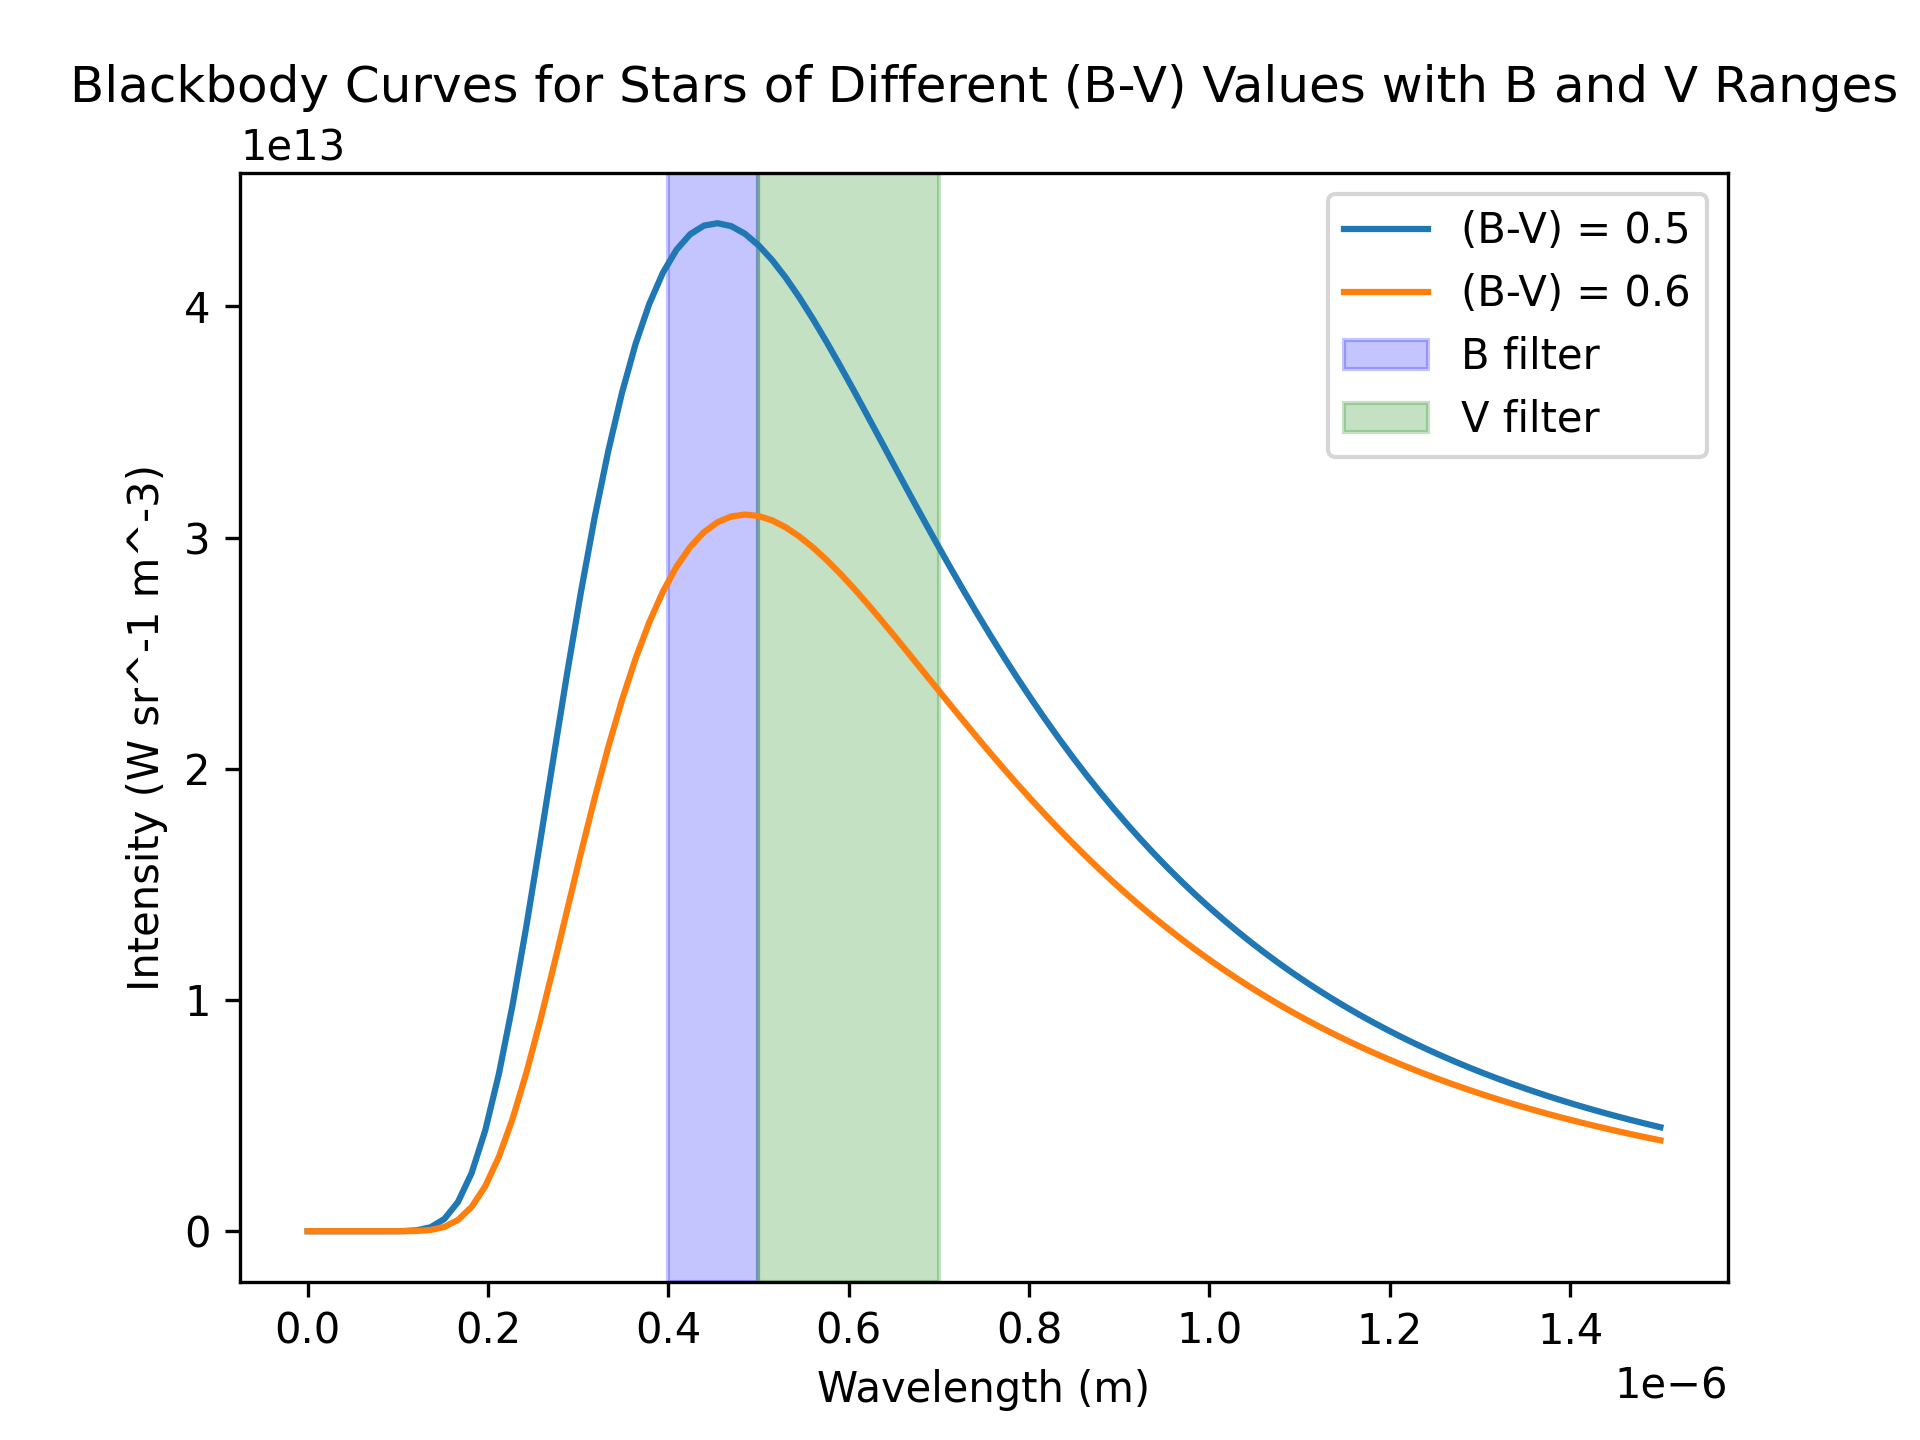
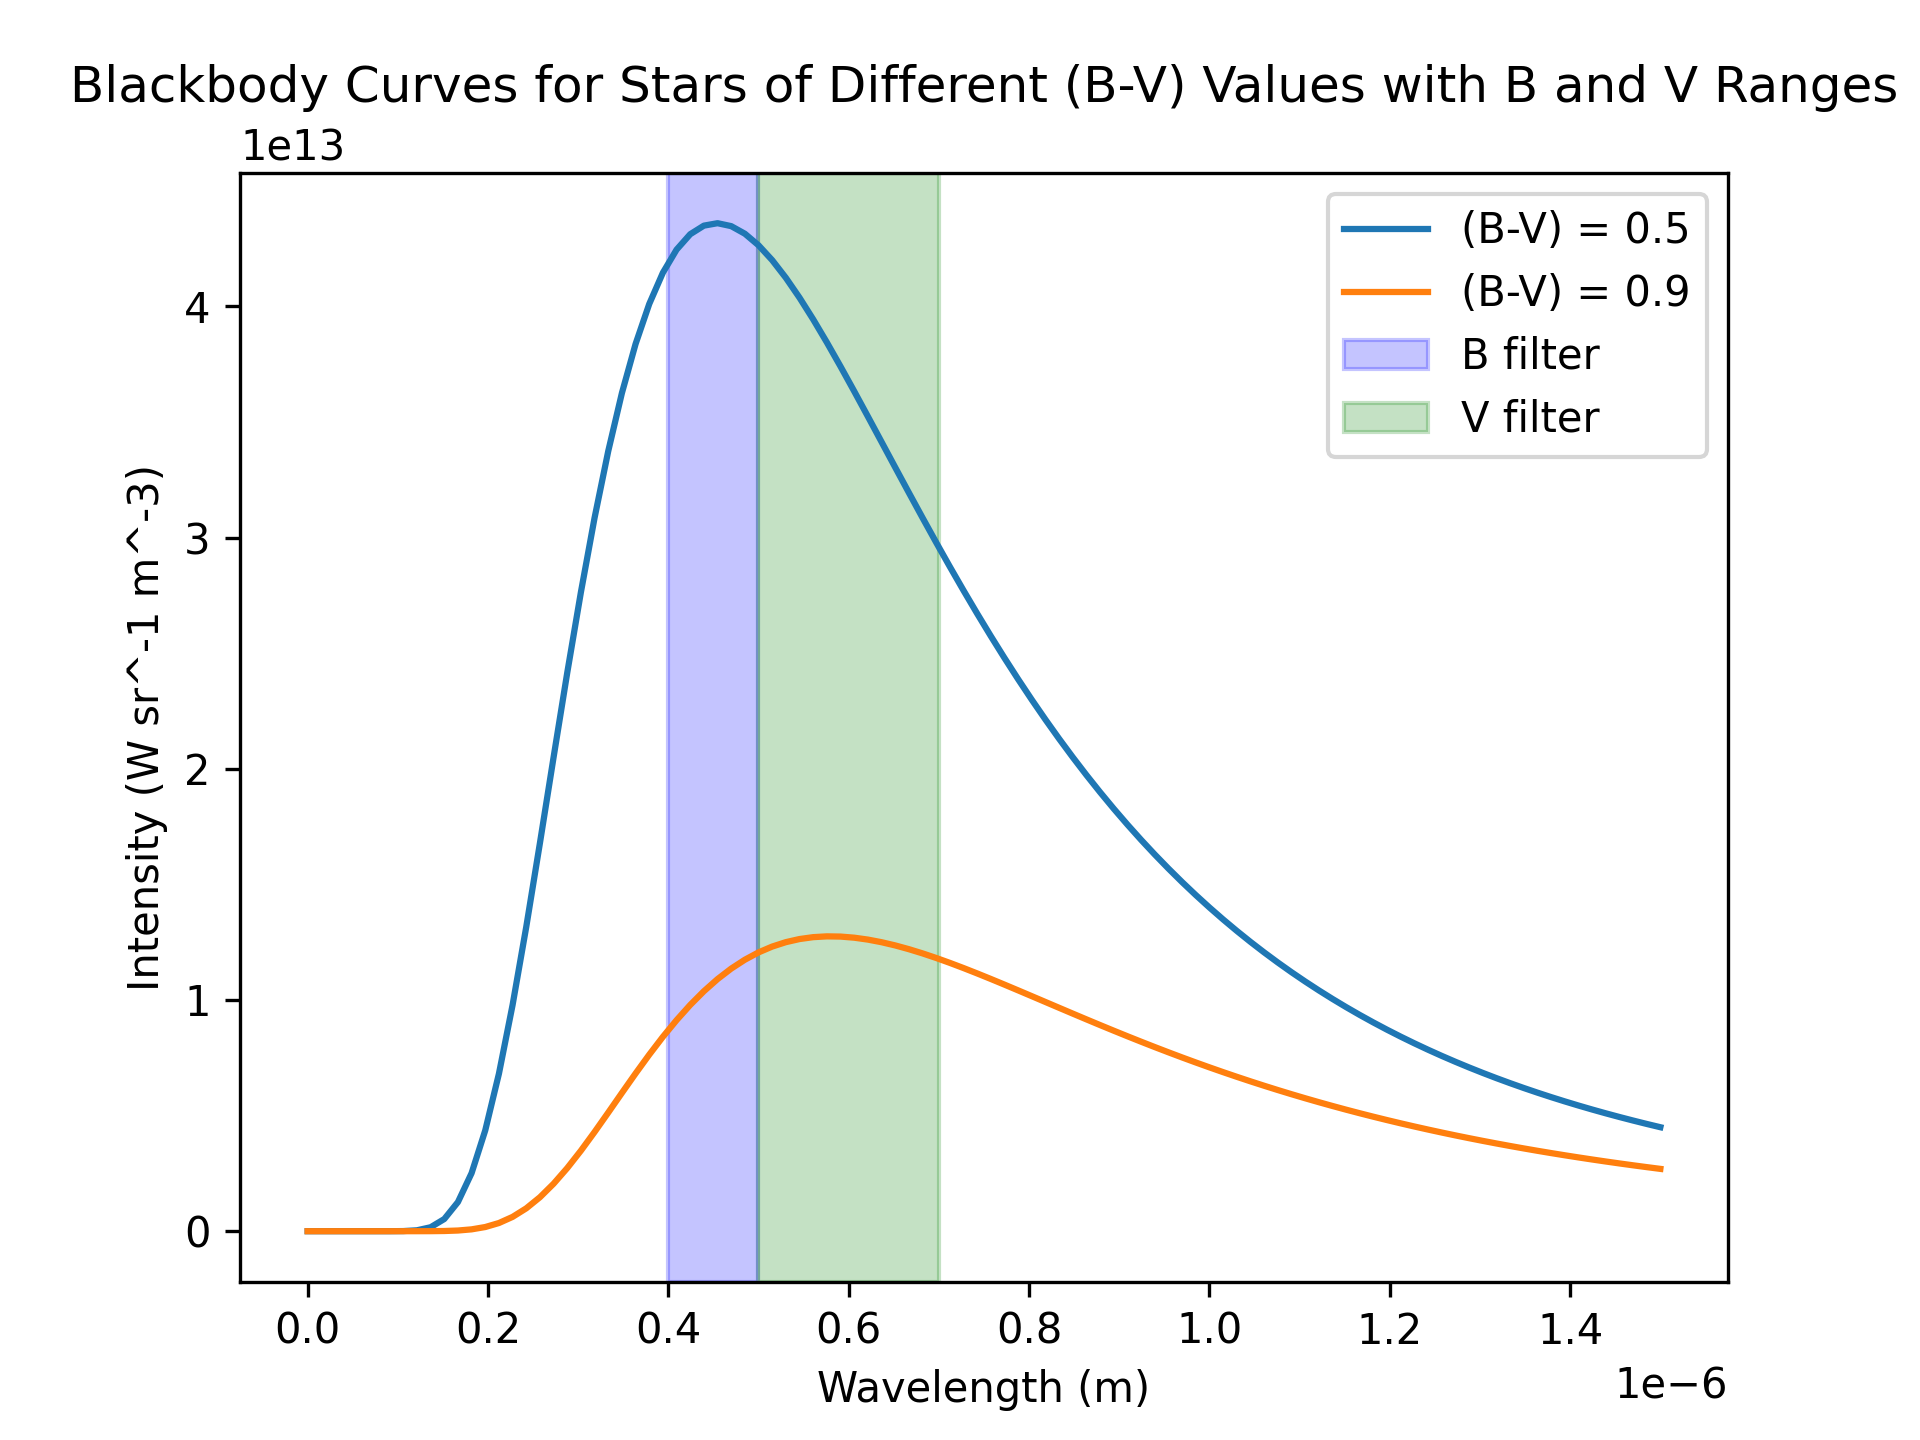
Updated images for lab 4

diff --git a/BO_AC_4/part2.py b/BO_AC_4/part2.py
@@ -64,7 +64,7 @@ plot_isoc(age7e8_B, age7e8_V, "7 x 10^8 years", distance1)
 
 
 plt.gca().invert_yaxis() # smaller V is brighter
-plt.title("CMD Diagram for Isochrones at 40 pc")
+plt.title("CMD for Isochrones at 40 pc")
 plt.xlabel("Color Index Difference of Blue and Visible (B - V)")
 plt.ylabel("Absolute Magnitude in Visible Color Index (V)")
 
@@ -154,7 +154,7 @@ plot_isoc(age2e8_B, age2e8_V, "2 x 10^8 years, 132.5 pc", distance_m45)
 
 
 plt.gca().invert_yaxis() # smaller V is brighter
-plt.title("CMD Diagram for M45 and Isochrone")
+plt.title("CMD for M45 and Isochrone")
 plt.xlabel("Color Index Difference of Blue and Visible (B - V)")
 plt.ylabel("Apparent Magnitude in Visible Color Index (V)")
 
@@ -241,10 +241,10 @@ plt.scatter(m67['B'] - m67['V'], m67['V'], s=[4], label="M67", alpha=0.33, color
 m67iso = isochrones['e9']['three']
 m67iso_B = np.array(m67iso['B'])
 m67iso_V = np.array(m67iso['V'])
-plot_isoc(m67iso_B, m67iso_V, "3 x 10^9 years, 850 pc", distance_m67)
+plot_isoc(m67iso_B, m67iso_V, "3 x 10^9 years, 850 pc ", distance_m67)
 
 plt.gca().invert_yaxis() # smaller V is brighter
-plt.title("CMD Diagram for M67 and Isochrone")
+plt.title("CMD for M67 and Isochrone")
 plt.xlabel("Color Index Difference of Blue and Visible (B - V)")
 plt.ylabel("Apparent Magnitude in Visible Color Index (V)")
 

diff --git a/BO_AC_4/part1.py b/BO_AC_4/part1.py
@@ -14,7 +14,7 @@ m67 = pandas.read_table(m67_path, sep='\t', usecols=[10, 11], na_values='')
 plt.figure()
 plt.scatter(m45['B'] - m45['V'], m45['V'], s=[4])
 plt.gca().invert_yaxis() # smaller V is brighter
-plt.title("CMD Diagram for M45")
+plt.title("Color Magnitude Diagram for M45")
 plt.xlabel("Color Index Difference of Blue and Visible (B - V)")
 plt.ylabel("Apparent Magnitude in Visible Color Index (V)")
 plt.gcf().savefig(fname="BO_AC_4/images/CMD_M45.png", dpi=300)
@@ -44,7 +44,7 @@ wavelengths = np.linspace(10 ** (-10), 1.5 * (10 ** (-6)), 100)
 intensities1 = planck(wavelengths, temp1)
 
 # Getting the temperature of a star with (B-V) of 0.6:
-temp2 = temp_from_BV(0.6)
+temp2 = temp_from_BV(0.9)
 # Getting the planck function intensities for (B-V) = 0.6:
 intensities2 = planck(wavelengths, temp2)
 
@@ -55,7 +55,7 @@ plt.figure()
 line1 = plt.plot(wavelengths, intensities1, label="(B-V) = 0.5")
 
 # Plotting blackbody curve for a star with (B - V) = 0.6
-line2 = plt.plot(wavelengths, intensities2, label="(B-V) = 0.6")
+line2 = plt.plot(wavelengths, intensities2, label="(B-V) = 0.9")
 
 # Labels
 plt.title("Blackbody Curves for Stars of Different (B-V) Values with B and V Ranges")
